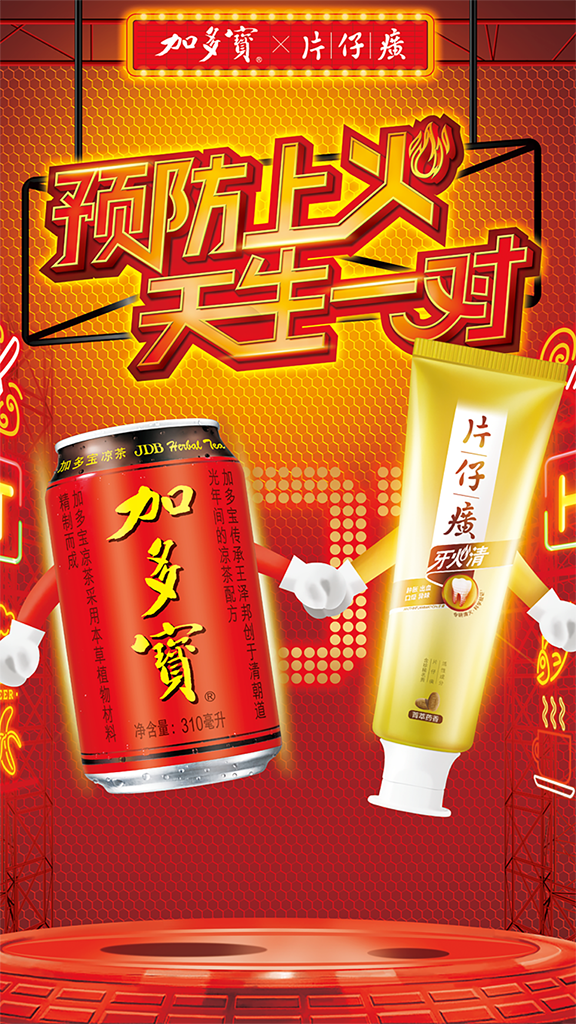
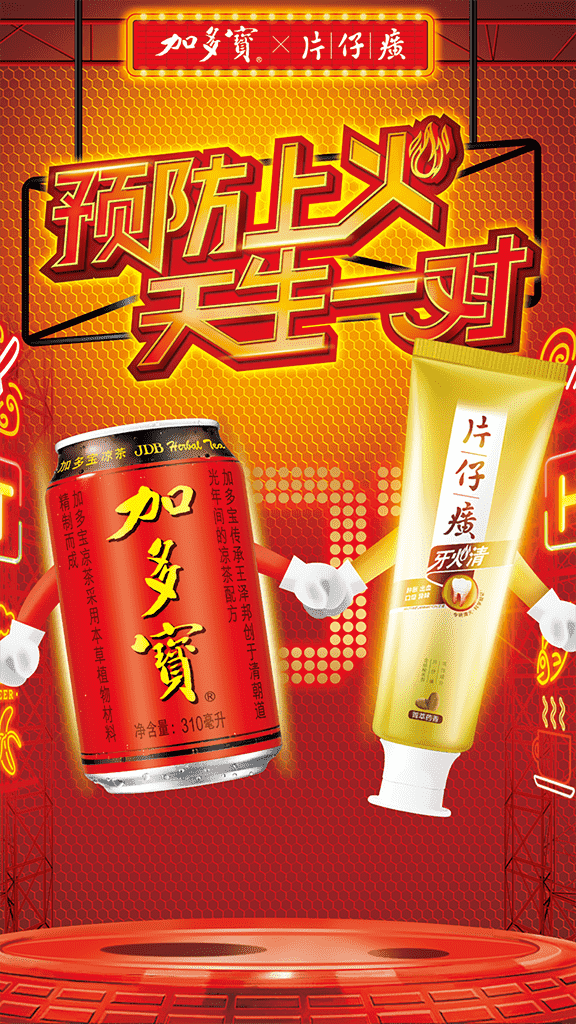
compress
compress images

diff --git a/asset/js/app.js b/asset/js/app.js
@@ -3,17 +3,17 @@ const video = document.querySelector('#video');
 var jumpaudio = new Audio('asset/audio/jump.mp3');
 var bgaudio = document.getElementById("bg_music");
 
-function cameraStart() {
-    navigator.mediaDevices
-        .getUserMedia(constraints)
-        .then(function(stream) {
-        track = stream.getTracks()[0];
-        video.srcObject = stream;
-    })
-    .catch(function(error) {
-        console.error("Oops. Something is broken.", error);
-    });
-}
+// function cameraStart() {
+//     navigator.mediaDevices
+//         .getUserMedia(constraints)
+//         .then(function(stream) {
+//         track = stream.getTracks()[0];
+//         video.srcObject = stream;
+//     })
+//     .catch(function(error) {
+//         console.error("Oops. Something is broken.", error);
+//     });
+// }
 
 // cameraStart();
 
@@ -31,6 +31,14 @@ function hideMainList(){
         mainList[i].hide();
     }
 }
+
+$("#picking").hide();
+$(".picked_container").hide();
+$(".picked_container_failed").hide();
+$("#main").hide();
+hideMainList();
+// $("#home_container").hide();
+// $("#start").hide();
 
 
 const webAR = new WebAR(1000, 'recognize.php');
@@ -126,15 +134,10 @@ window.addEventListener("resize", function () {
 
 
 $(document).ready(function(){
-    animateDiv('#jdb01', 2000);
-    animateDiv('#yg01', 3000);
-    animateDiv('#jdb02', 5000);
-    animateDiv('#yg02', 3000);
-    animateDiv('#jdb03', 1000);
-    animateDiv('#yg03', 2000);
+    
 
     console.log("set its height to", $(window).height());
-    $(".home_container").height($(window).height());
+    // $(".home_container").height($(window).height());
 });
 
 function makeNewPosition(){
@@ -189,13 +192,14 @@ $("#start").click(function(){
     $("#main").show();
     showMainList();
     bgaudio.play();
-});
 
-$("#picking").hide();
-$(".picked_container").hide();
-$(".picked_container_failed").hide();
-$("#main").hide();
-hideMainList();
+    animateDiv('#jdb01', 2000);
+    animateDiv('#yg01', 3000);
+    animateDiv('#jdb02', 5000);
+    animateDiv('#yg02', 3000);
+    animateDiv('#jdb03', 1000);
+    animateDiv('#yg03', 2000);
+});
 
 $("#ball-pick").click(function(){
     
@@ -260,3 +264,126 @@ function showMainList(){
         }
     }, 2000);
 }
+
+
+
+// var colors = ['#f10d00', // Standard ball
+// '#a63deb', // Master ball
+// '#5baeff', // Great ball
+// '#00874b', // Safari ball
+// '#505301'];
+
+// // Editable.
+// // Ultra ball
+// var d = 72; // Diameter.
+// var w = 8; // Inner line width.
+// var T = 120; // Period, in frames @ 60fps.
+
+// // Computed.
+// var r = d / 2; // Radius.
+// var r2_max = r / 5; // Max radius of the mid-section.
+// var l = r * 2 + w; // Canvas side length.
+
+// // Constants.
+// var _Math = Math;
+// var abs = _Math.abs;
+// var pi = _Math.PI;
+
+// var C_y = 4 / 3; // Simplified from 4/3*tan(θ/4)), since θ=π.
+// var _document = document;
+// var body = _document.body;
+
+// var bag = document.createElement('div');
+// Object.assign(bag.style, {
+//   left: '50%',
+//   position: 'absolute',
+//   top: '50%',
+//   transform: 'translate3d(-50%, -50%, 0)',
+//   zIndex: 200000
+// });
+
+// var team = colors.map(pokeball);
+// team.forEach(function (ball) {
+//   return bag.appendChild(ball.canvas);
+// });
+// body.style.background = '#de73cd';
+// body.appendChild(bag);
+
+// !function loop(t) {
+//   team.forEach(function (_ref, i, _ref2) {
+//     var step = _ref.step;
+//     var length = _ref2.length;
+//     return step((t + i * T / length) % T);
+//   });
+//   requestAnimationFrame(loop.bind(this, t + 1));
+// }(0);
+
+// function pokeball(top) {
+//   // Constants.
+//   var canvas = document.createElement('canvas');
+//   canvas.style.zIndex = "200000";
+//   var ctx = canvas.getContext('2d');
+
+//   // Prepare the canvas and clip it to a circle.
+//   canvas.width = canvas.height = l;
+//   Object.assign(canvas.style, {
+//     background: '#f0f0f0',
+//     border: w / 2 + 'px solid #f8f8f8',
+//     borderRadius: '50%',
+//     boxShadow: '2px 4px rgba(34, 34, 36, 0.2)',
+//     height: l / 2 + 'px',
+//     margin: w + 'px',
+//     width: l / 2 + 'px'
+//   });
+//   ctx.translate(w / 2, w / 2);
+//   ctx.beginPath();
+//   ctx.lineWidth = w;
+//   ctx.arc(r, r, r, 0, 2 * pi);
+//   ctx.stroke();
+//   ctx.clip();
+
+//   ctx.strokeStyle = '#222224';
+//   function step(t) {
+//     // t:     0 -------- T/2 -------- T
+//     // frame: 0 --------- T --------- 0
+//     // y:     bottom --- top --- bottom
+//     //     where bottom: 1 - C_y, top: C_y
+//     var frame = 2 * (T / 2 - abs(T / 2 - t));
+//     var y = 1 - C_y + frame / T * (2 * C_y - 1);
+
+//     ctx.clearRect(0, 0, d, d);
+//     ctx.lineWidth = w;
+
+//     // Draw a "circle".
+//     ctx.beginPath();
+//     ctx.fillStyle = top;
+//     ctx.moveTo(-w / 2, r);
+//     ctx.bezierCurveTo(-w / 2, y * d, d + w, y * d, d + w, r);
+//     ctx.stroke();
+//     //ctx.arc(r, r, r, 0, pi, true);
+//     ctx.lineTo(d, 0);
+//     ctx.lineTo(0, 0);
+//     ctx.fill();
+//     ctx.closePath();
+
+//     // Draw the center circle.
+//     var c = d * y / C_y + r2_max * C_y;
+//     var r2 = r2_max * (1 - abs(1 / 2 - y) / 3);
+//     var r3 = r2 / 3 * 2;
+
+//     ctx.beginPath();
+//     ctx.lineWidth /= 2;
+//     ctx.fillStyle = '#f0f0f0';
+//     ctx.arc(r, c, r2, 0, 2 * pi);
+//     ctx.fill();
+//     ctx.stroke();
+//     ctx.closePath();
+
+//     ctx.beginPath();
+//     ctx.lineWidth /= 2;
+//     ctx.arc(r, c, r3, 0, 2 * pi);
+//     ctx.stroke();
+//     ctx.closePath();
+//   };
+//   return { canvas: canvas, step: step };
+// }
